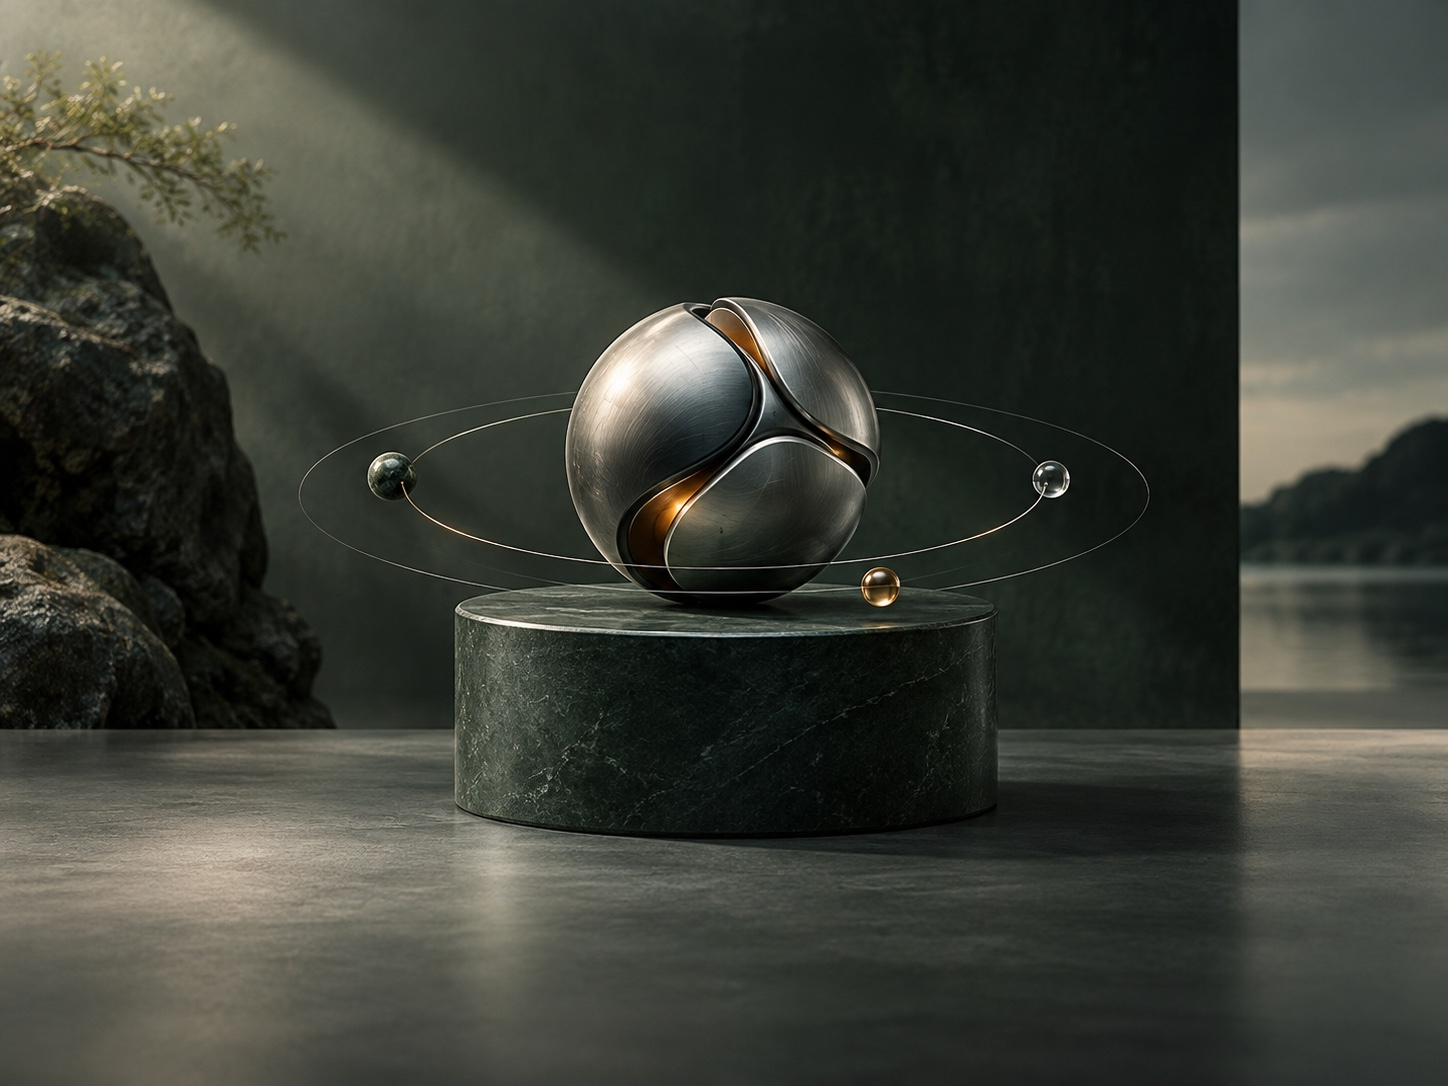
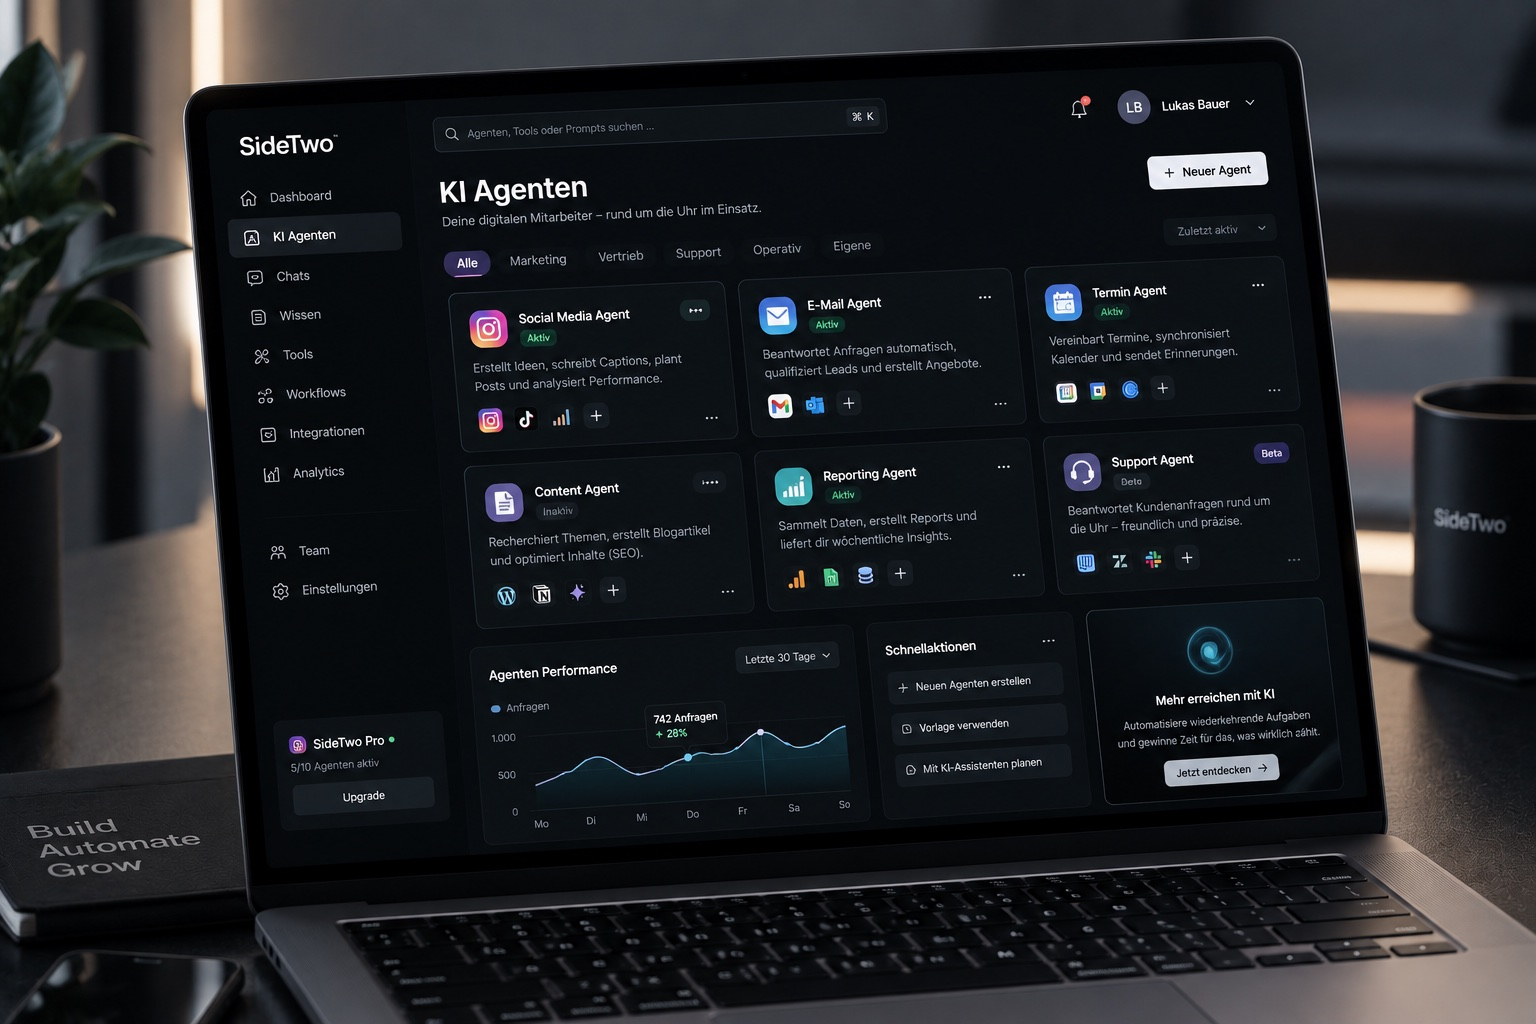
Show founder profiles together and refine service media

diff --git a/src/styles.css b/src/styles.css
@@ -2058,3 +2058,14 @@ input { caret-color: var(--accent); }
 @media (prefers-reduced-motion: reduce) { .faq-item button i { transition: none; } }
 @media (max-width: 800px) { .team-modal-backdrop { padding: 14px; }.team-modal { height: min(760px, calc(100dvh - 28px)); grid-template-columns: 1fr; overflow-y: auto; border-radius: 24px; }.team-modal-portrait { height: 205px; min-height: 205px; padding: 0 22px 17px; }.team-modal-portrait::before { width: 125px; height: 125px; bottom: 16px; }.team-modal-portrait img { width: 112px; height: 112px; }.team-modal-identity { top: 20px; left: 22px; }.team-modal-identity strong { font-size: 19px; }.team-modal-copy { overflow: visible; padding: 24px 22px 27px; }.team-modal-tabs { margin-bottom: 16px; }.team-modal-copy h3 { font-size: 29px; }.faq { grid-template-columns: 1fr; gap: 48px; padding: 86px 30px 94px; }.faq-intro { position: static; }.faq-intro h2 { max-width: 580px; }.faq-contact-link { margin-top: 28px; } }
 @media (max-width: 560px) { .faq { gap: 38px; padding: 74px 18px 80px; }.faq-intro h2 { font-size: clamp(40px, 11vw, 51px); }.faq-intro p { margin-top: 19px; font-size: 13px; }.faq-item button { gap: 15px; padding: 20px 0; font-size: 18px; }.faq-item button i { width: 34px; height: 34px; }.faq-answer { padding: 0 6px 21px 0; }.faq-answer p { font-size: 13px; }.team-modal-tabs button { padding: 8px; }.team-modal-tabs img { width: 28px; height: 28px; }.team-modal-tabs small { display: none; }.team-profile-orbit { font-size: 9px; }.team-modal-copy h3 { font-size: 27px; }.team-facts span { font-size: 10.5px; }.team-experience p { grid-template-columns: 72px minmax(0,1fr); gap: 8px; } }
+
+/* Team overview: both founders are visible without a profile switch. */
+.team-overview-modal { width: min(1050px, 100%); height: auto; min-height: 0; display: block; overflow: hidden; border-radius: 30px; background: #153334; }
+.team-overview-head { position: relative; padding: 34px 42px 30px; border-bottom: 1px solid rgba(185,226,216,.14); background: linear-gradient(100deg, #102a2b, #1a3b3b); }.team-overview-head > span { color: #f2a146; font-size: 10px; font-weight: 800; letter-spacing: .12em; text-transform: uppercase; }.team-overview-head h3 { max-width: 630px; margin: 9px 0 0; color: #edf4f0; font-size: clamp(31px, 3.2vw, 45px); font-weight: 520; line-height: .98; letter-spacing: -.05em; }.team-overview-head p { max-width: 505px; margin: 14px 0 0; color: rgba(232,239,235,.68); font-size: 13px; line-height: 1.5; }
+.team-overview-grid { display: grid; grid-template-columns: repeat(2, minmax(0, 1fr)); gap: 14px; padding: 16px; }.team-profile-card { min-width: 0; display: grid; grid-template-columns: 156px minmax(0,1fr); overflow: hidden; border: 1px solid rgba(185,226,216,.14); border-radius: 21px; color: #eaf2ee; background: #102728; }.team-profile-image { min-height: 306px; position: relative; overflow: hidden; background: #0b2021; }.team-profile-image::after { content: ''; position: absolute; inset: 0; background: linear-gradient(0deg, rgba(6,20,21,.7), transparent 56%); }.team-profile-image img { width: 100%; height: 100%; object-fit: cover; object-position: center top; filter: saturate(.84) contrast(1.03); }.team-profile-content { display: flex; flex-direction: column; align-items: flex-start; min-width: 0; padding: 25px 23px 21px; }.team-profile-content > p { margin: 0; color: #f2a146; font-size: 10px; font-weight: 760; }.team-profile-content h4 { margin: 7px 0 0; color: #f2f6f2; font-size: clamp(22px, 2vw, 29px); font-weight: 560; line-height: 1; letter-spacing: -.04em; }.team-profile-content > strong { margin-top: 13px; color: #b9e2d8; font-size: 12px; font-weight: 680; line-height: 1.35; }.team-profile-content ul { display: grid; gap: 5px; margin: 17px 0 0; padding: 0; list-style: none; }.team-profile-content li { position: relative; padding-left: 12px; color: rgba(232,239,235,.68); font-size: 10px; line-height: 1.35; }.team-profile-content li::before { content: ''; width: 5px; height: 5px; position: absolute; top: .43em; left: 0; border-radius: 50%; background: #b9e2d8; }.team-profile-content > a, .team-profile-content > span { display: inline-flex; align-items: center; gap: 7px; margin-top: auto; padding-top: 19px; color: #f2a146; font-size: 11px; font-weight: 760; }.team-profile-content > span { color: rgba(232,239,235,.54); }
+
+/* Each supplied visual keeps its product legible at every breakpoint. */
+.service-carousel-media-website img, .service-carousel-media-automation img, .service-carousel-media-agent img, .service-carousel-media-tools img { object-fit: cover; object-position: center 47%; }.service-carousel-media-social img { object-position: center 40%; }
+@media (min-width: 801px) { .service-carousel-media-website img { object-position: center 43%; }.service-carousel-media-automation img { object-position: center 44%; }.service-carousel-media-agent img { object-position: center 42%; }.service-carousel-media-tools img { object-position: center 42%; } }
+@media (max-width: 800px) { .team-overview-modal { max-height: calc(100dvh - 28px); overflow-y: auto; border-radius: 24px; }.team-overview-head { padding: 28px 24px 24px; }.team-overview-grid { grid-template-columns: 1fr; }.team-profile-card { grid-template-columns: 126px minmax(0,1fr); }.team-profile-image { min-height: 236px; }.team-profile-content { min-height: 236px; padding: 21px 18px 18px; }.team-profile-content ul { margin-top: 12px; }.team-profile-content > a, .team-profile-content > span { padding-top: 13px; }.service-carousel-media-website img { object-position: center 39%; }.service-carousel-media-automation img { object-position: center 39%; }.service-carousel-media-agent img { object-position: center 37%; }.service-carousel-media-tools img { object-position: center 38%; }.service-carousel-media-social img { object-position: center 34%; } }
+@media (max-width: 420px) { .team-overview-head h3 { font-size: 30px; }.team-profile-card { grid-template-columns: 106px minmax(0,1fr); }.team-profile-image { min-height: 224px; }.team-profile-content { min-height: 224px; padding: 17px 15px; }.team-profile-content h4 { font-size: 22px; }.team-profile-content > strong { margin-top: 10px; font-size: 11px; }.team-profile-content li { font-size: 9.5px; }.team-profile-content > a, .team-profile-content > span { padding-top: 10px; }.service-carousel-media img { object-position: center 38%; } }

diff --git a/src/main.jsx b/src/main.jsx
@@ -337,8 +337,6 @@ function StudioImpact() {
   const sectionRef = useRef(null)
   const [headingProgress, setHeadingProgress] = useState(0)
   const [profileOpen, setProfileOpen] = useState(false)
-  const [activeFounder, setActiveFounder] = useState('alex')
-  const founder = founderProfiles[activeFounder]
 
   useEffect(() => {
     const closeOnEscape = (event) => {
@@ -398,7 +396,7 @@ function StudioImpact() {
           <p>für Unternehmen aus der Region realisiert.</p>
         </article>
         <div className="impact-stack">
-          <button className="impact-card impact-team" type="button" onClick={() => { setActiveFounder('alex'); setProfileOpen(true) }} aria-haspopup="dialog" aria-label="Profile von Alexandros Kodalis und Bilal Altuntas öffnen">
+          <button className="impact-card impact-team" type="button" onClick={() => setProfileOpen(true)} aria-haspopup="dialog" aria-label="Profile von Alexandros Kodalis und Bilal Altuntas öffnen">
             <div className="impact-portraits" aria-label="Alexandros Kodalis und Bilal Altuntas">
               <img src={asset('assets/people/alex-kodalis.png')} alt="Alexandros Kodalis" />
               <img src={asset('assets/people/bilal-altuntas.png')} alt="Bilal Altuntas" />
@@ -424,27 +422,20 @@ function StudioImpact() {
       </div>
       {profileOpen ? (
         <div className="reference-modal-backdrop team-modal-backdrop" role="presentation" onMouseDown={() => setProfileOpen(false)}>
-          <article className="team-modal" role="dialog" aria-modal="true" aria-labelledby="team-modal-title" onMouseDown={(event) => event.stopPropagation()}>
+          <article className="team-modal team-overview-modal" role="dialog" aria-modal="true" aria-labelledby="team-modal-title" onMouseDown={(event) => event.stopPropagation()}>
             <button className="reference-modal-close" type="button" onClick={() => setProfileOpen(false)} aria-label="Profil schließen"><X weight="bold" /></button>
-            <div className="team-modal-portrait">
-              <div className="team-modal-identity"><span>SideTwo</span><strong>{founder.name}</strong><small>Gründer · Digital Studio</small></div>
-              <img src={asset(founder.portrait)} alt={founder.name} />
-            </div>
-            <div className="team-modal-copy">
-              <div className="team-modal-tabs" role="tablist" aria-label="Profile der Gründer">
-                <div className="team-profile-orbit" aria-hidden="true"><span><img src={asset('assets/people/alex-kodalis.png')} alt="" /><img src={asset('assets/people/bilal-altuntas.png')} alt="" /></span></div>
-                {Object.entries(founderProfiles).map(([key, item]) => <button key={key} type="button" role="tab" aria-selected={activeFounder === key} onClick={() => setActiveFounder(key)}><img src={asset(item.portrait)} alt="" /><span>{item.name.split(' ')[0]}<small>{activeFounder === key ? 'Aktives Profil' : 'Profil ansehen'}</small></span></button>)}
-              </div>
-              <p>{founder.name} · SideTwo</p>
-              <h3 id="team-modal-title">{founder.intro}</h3>
-              <div className="team-facts">
-                {founder.facts.map((fact) => <span key={fact}>{fact}</span>)}
-              </div>
-              <div className="team-experience" aria-label={`Erfahrung von ${founder.name}`}>
-                <strong>Erfahrung</strong>
-                {founder.experience.map(([label, text]) => <p key={label}><span>{label}</span> {text}</p>)}
-              </div>
-              {founder.linkedin ? <a href={founder.linkedin} target="_blank" rel="noreferrer">LinkedIn-Profil ansehen <ArrowRight size={16} weight="bold" /></a> : <span className="team-profile-note">Weitere Angaben folgen.</span>}
+            <header className="team-overview-head"><span>SideTwo</span><h3 id="team-modal-title">Zwei Köpfe. Eine digitale Seite.</h3><p>Strategie, Gestaltung und technische Umsetzung direkt aus einer Hand.</p></header>
+            <div className="team-overview-grid">
+              {Object.entries(founderProfiles).map(([key, founder]) => (
+                <article className={`team-profile-card team-profile-card-${key}`} key={key}>
+                  <div className="team-profile-image"><img src={asset(founder.portrait)} alt={founder.name} /></div>
+                  <div className="team-profile-content">
+                    <p>Gründer · SideTwo</p><h4>{founder.name}</h4><strong>{founder.intro}</strong>
+                    <ul>{founder.facts.slice(0, key === 'alex' ? 3 : 2).map((fact) => <li key={fact}>{fact}</li>)}</ul>
+                    {founder.linkedin ? <a href={founder.linkedin} target="_blank" rel="noreferrer">LinkedIn-Profil <ArrowRight size={15} weight="bold" /></a> : <span>Profil wird ergänzt.</span>}
+                  </div>
+                </article>
+              ))}
             </div>
           </article>
         </div>
